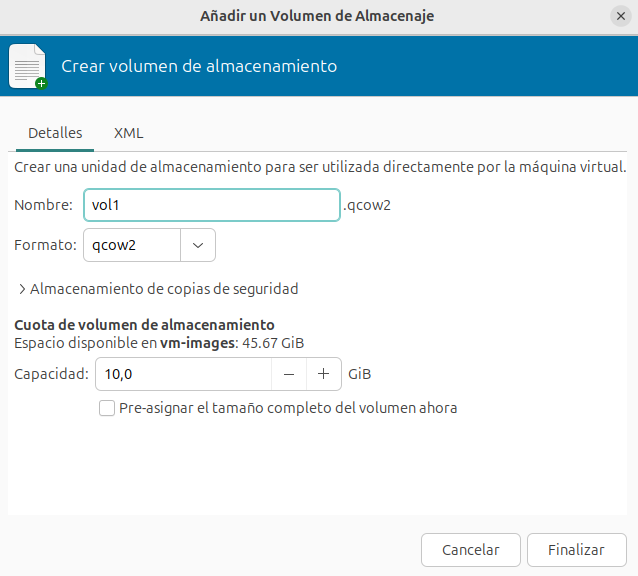
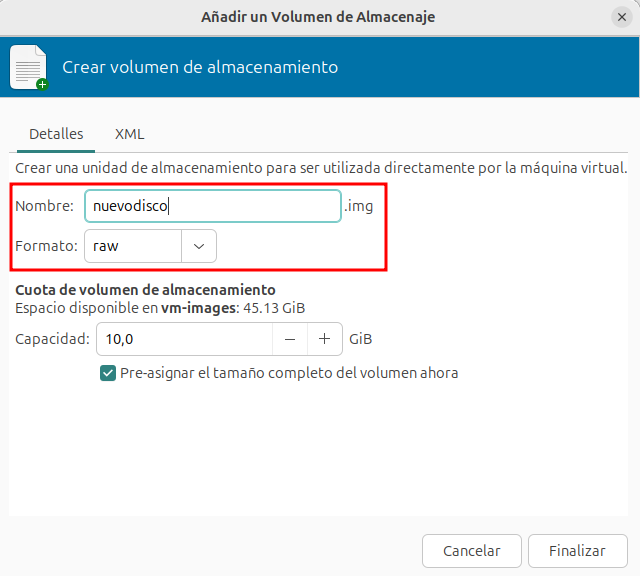
Unidad04

diff --git a/curso1/contenidos/unidad04/clase3.md b/curso1/contenidos/unidad04/clase3.md
@@ -23,16 +23,14 @@ Vamos a crear un nuevo volumen en el grupo que hemos creado en el apartado anter
 
 Vamos a crear un volumen con formato raw de 10 GB llamado `nuevodisco.img`. Este volumen tendrá asignado el tamaño completo. Lo utilizaremos en el siguiente apartado.
 
-IMAGEN CREACIÓN DISCO RAW
+![volumen](img/volumen2.png)
 
 ### Creación de volúmenes qcow2
 
 En el siguiente apartado también vamos a utilizar dos volúmenes que vamos a crear a continuación con formato qcow2 de 1 GB. Se llamarán `disco1.qcow2` y `disco2.qcow2`. Recordamos que estos ficheros no ocuparán el tamaño completo, irán aumentando el tamaño de forma dinámica.
 
-CREAR NUEVA IMAGEN DISCO QCOW2
-
-![volumen](img/volumen2.png)
+![volumen](img/volumen3.png)
 
 Podemos comprobar los volúmenes que hemos creado en el grupo de almacenamiento `vm-images`:
 
-CREAR NUEVA IMAGEN
+![volumen](img/volumen4.png)
